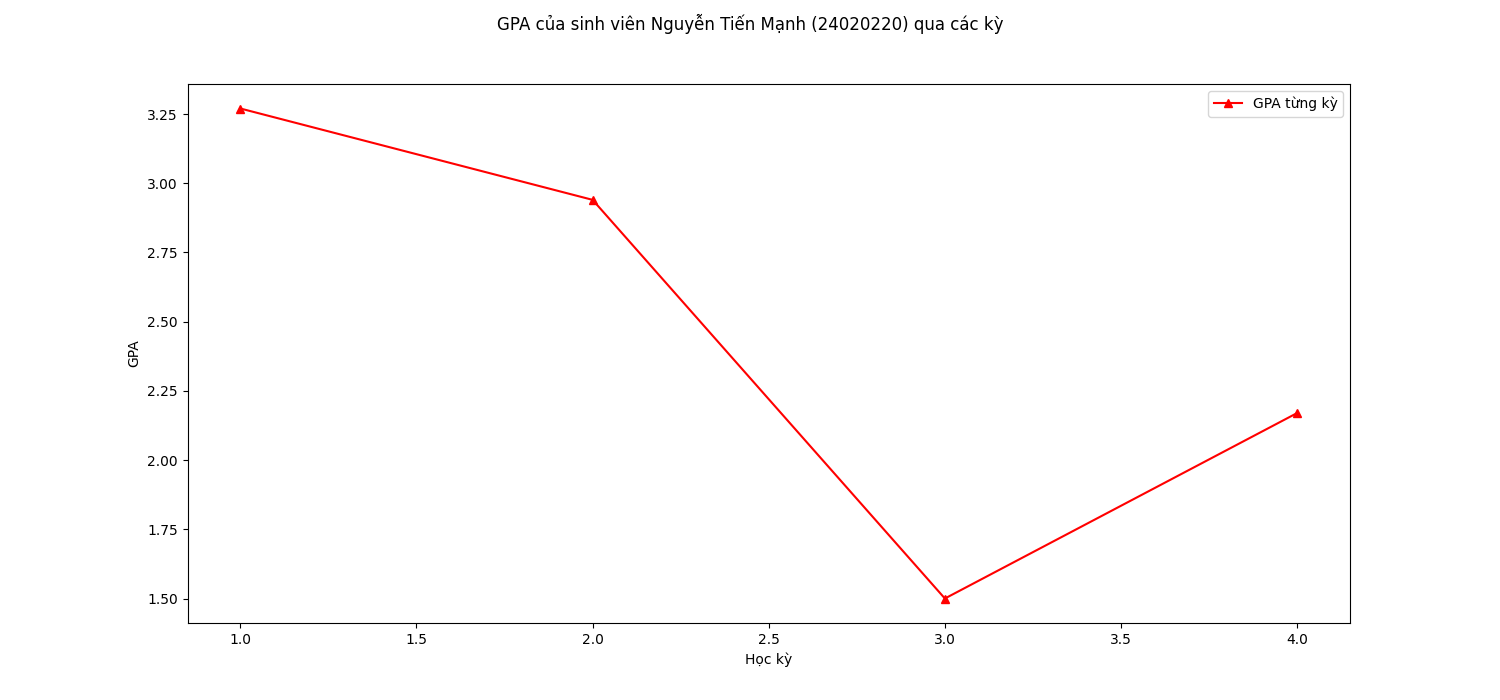
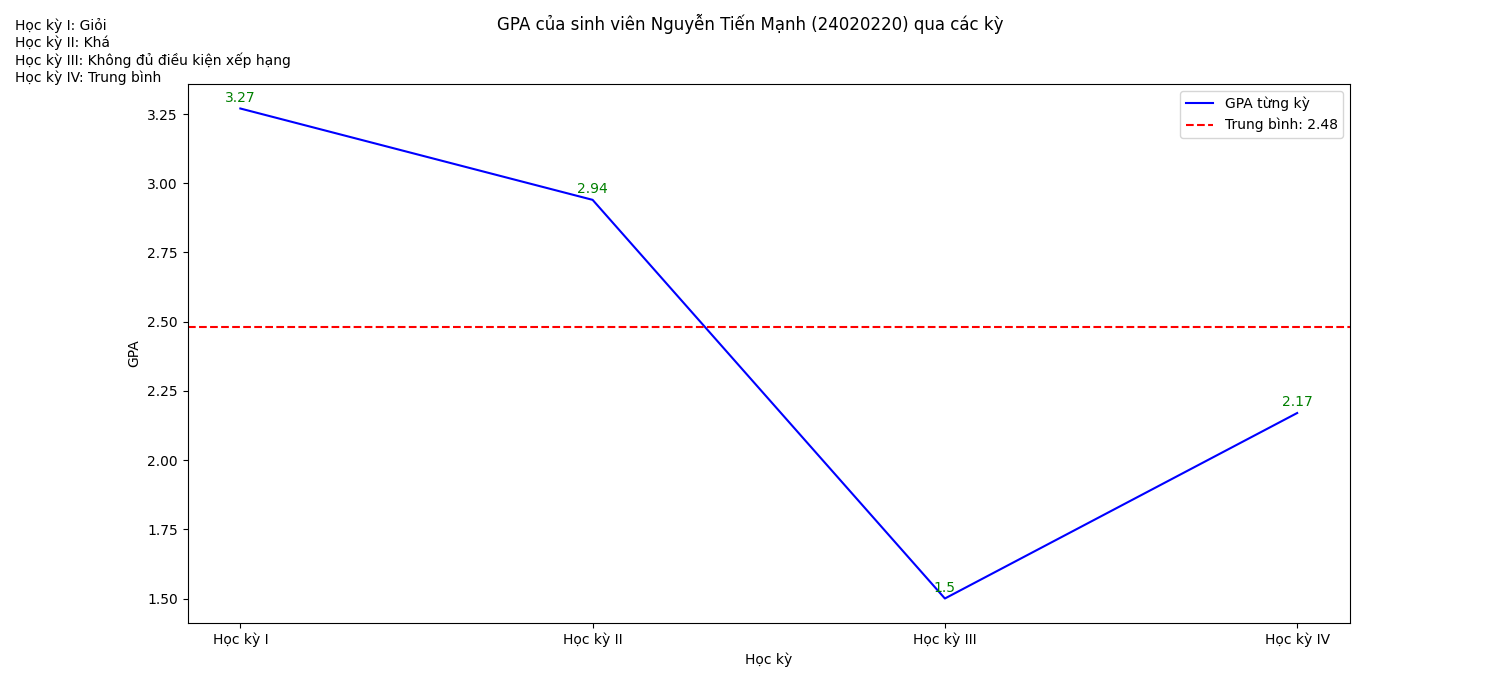
Bổ sung chú thích cho biểu đồ sinh viên

diff --git a/libs/draw/draw_chart.py b/libs/draw/draw_chart.py
@@ -11,10 +11,22 @@ def draw_chart_each_gpa_of_a_student(MSSV):
         get_gpa_4(MSSV, 12526),
         get_gpa_4(MSSV, 22526)
     ]
+    HocKy = ["Học kỳ I", "Học kỳ II", "Học kỳ III", "Học kỳ IV"]
+    cpa = get_cpa_4(MSSV)
 
-    ax.plot([1, 2, 3, 4], gpa_each_HocKy, "r-^", label="GPA từng kỳ")
+    ax.plot(HocKy, gpa_each_HocKy, "b-", label="GPA từng kỳ")
+    ax.axhline(cpa, color="red", linestyle="--", label=f"Trung bình: {cpa}")
     ax.set_xlabel("Học kỳ")
     ax.set_ylabel("GPA")
+    for i, j in zip(HocKy, gpa_each_HocKy): 
+        ax.annotate(str(round(j,2)), xy=(i, j), xytext=(0,5), textcoords="offset points", ha="center", fontsize=10, color="green")
+
+    evaluation_text = f"{HocKy[0]}: {evaluate_academic_perfomance(MSSV, 12425)}\n" \
+        f"{HocKy[1]}: {evaluate_academic_perfomance(MSSV, 22425)}\n"\
+        f"{HocKy[2]}: {evaluate_academic_perfomance(MSSV, 12526)}\n"\
+        f"{HocKy[3]}: {evaluate_academic_perfomance(MSSV, 22526)}\n"\
+
+    fig.text(0.01, 0.86, evaluation_text)
     ax.legend()
     fig.savefig(f"./resources/output_images/draw_chart_each_gpa_of_a_student_{MSSV}.png")
     plt.show()

diff --git a/main.py b/main.py
@@ -1,0 +1,7 @@
+from libs.database_lib.database import *
+from libs.database_lib.evaluate_student_lib import *
+from libs.draw.draw_chart import *
+
+if __name__ == "__main__":
+    draw_chart_each_gpa_of_a_student(24020220)
+    # draw_chart_gpa_of_all_students_a_HocKy(12425)
